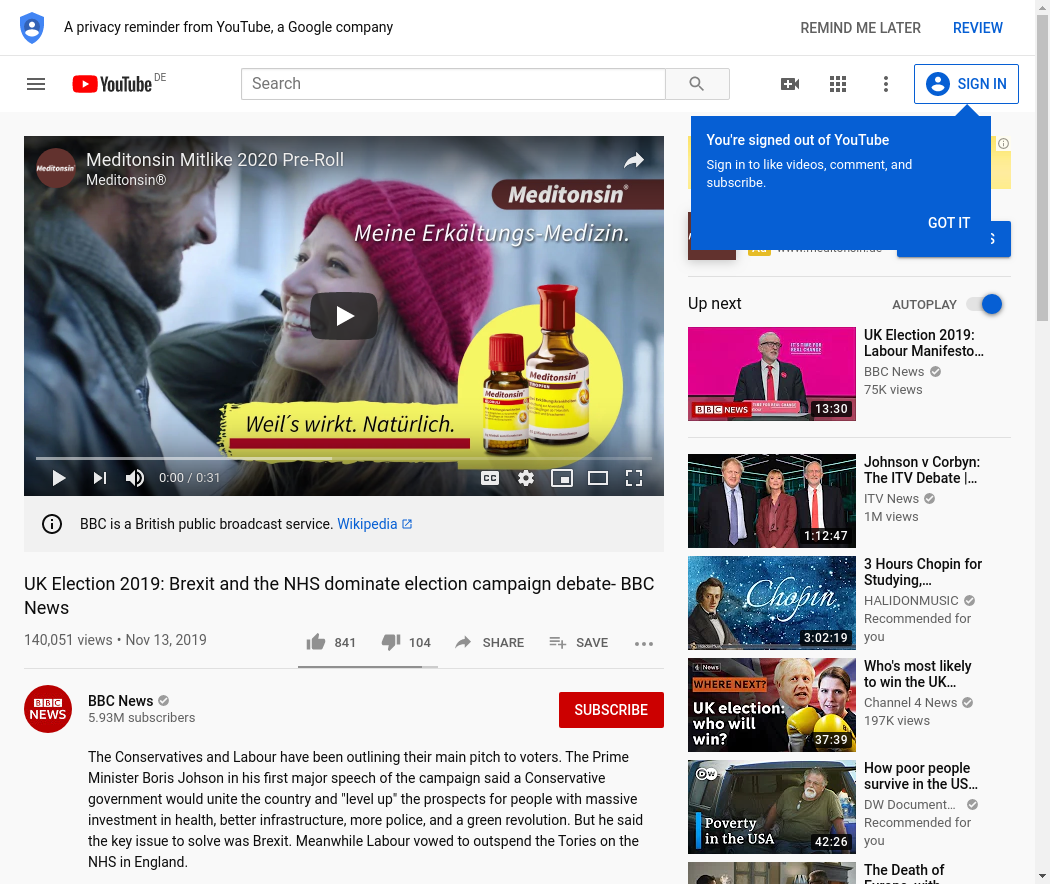
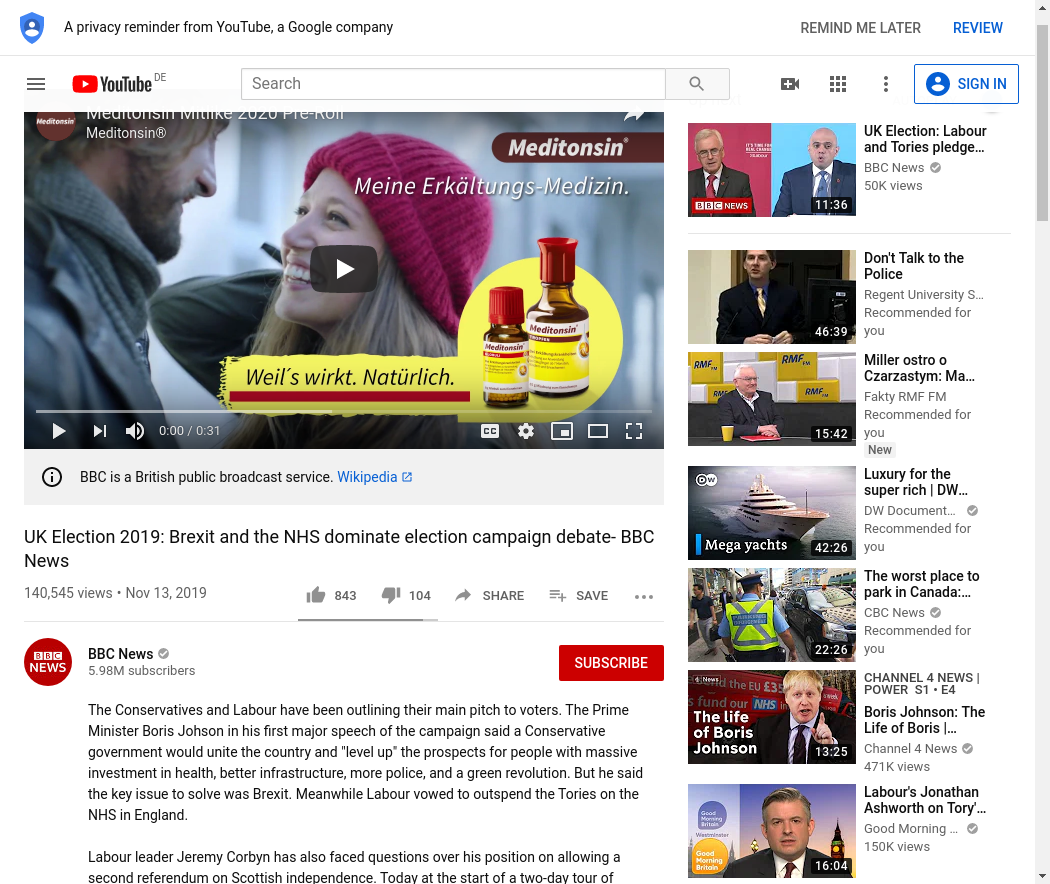
Added Rate Limits

diff --git a/slides/Julian/TheYouTubeAPI.html b/slides/Julian/TheYouTubeAPI.html
@@ -1,7 +1,7 @@
 <!DOCTYPE html>
 <html xmlns="http://www.w3.org/1999/xhtml" lang="" xml:lang="">
   <head>
-    <title>Automatic sampling and analysis of YouTubeData</title>
+    <title>Automatic Sampling and Analysis of YouTube Data</title>
     <meta charset="utf-8" />
     <meta name="author" content="Julian Kohne Johannes Breuer M. Rohangis Mohseni" />
     <meta name="date" content="2020-02-10" />
@@ -13,17 +13,16 @@
     <textarea id="source">
 class: center, middle, inverse, title-slide
 
-# Automatic sampling and analysis of YouTubeData
+# Automatic Sampling and Analysis of YouTube Data
 ## The YouTube API
 ### Julian Kohne<br />Johannes Breuer<br />M. Rohangis Mohseni
 ### 2020-02-10
 
 ---
 
-
 class: center, middle
 
-# Overview
+# The YouTube API
  
 ---
 
@@ -41,7 +40,7 @@ or send content to the database
 - The Youtube Website is
     - build in [HTML](https://de.wikipedia.org/wiki/Hypertext_Markup_Language), 
     - uses [CSS](https://de.wikipedia.org/wiki/Cascading_Style_Sheets) for the "styling"
-    - dynamically loads content using [Ajax](https://en.wikipedia.org/wiki/Ajax_(programming) ) from the Database
+    - dynamically loads content using [Ajax](https://en.wikipedia.org/wiki/Ajax) from the Database
 
 ![plot](Images/YouTube_better.png)
 ---
@@ -51,7 +50,7 @@ or send content to the database
  interesting to us and copy/pasting them. However, this is tedious and time-consuming.**We want a way
  of automatizing this task**
 
-- In general, there are two ways of getting data from a Website ( [Webscraping](https://en.wikipedia.org/wiki/Web_scraping))
+- [Webscraping](https://en.wikipedia.org/wiki/Web_scraping)
 
  1)  **Screenscraping:** Getting the HTML-code out of your browser, parsing &amp; formatting it, then analyzing the data
   
@@ -78,15 +77,14 @@ class: center, middle
 - To automatically obtain data, we can use a so called [GET      request](https://en.wikipedia.org/wiki/Hypertext_Transfer_Protocol)
 
 - A GET request is an HTTP method for asking a server to send a specific resource (usually an HTML page) back
-to you local machine
+to your local machine
 
-- You can try it out in your console with ```{r}GET https://en.wikipedia.org/wiki/Hypertext_Transfer_Protocol ```
+- You can try it out in your console with ``` GET https://en.wikipedia.org/wiki/Hypertext_Transfer_Protocol ```
 
 - This is the basic principle that all the Scraping packages build-on.
 
-- We will not use it directly and will let the higher-level applications handle this under the hood
+- We will not use this directly and will let the higher-level applications handle this under the hood
 
----
 ---
 font-size: x-small
 
@@ -96,7 +94,8 @@ font-size: x-small
 
 
 ```r
-# installing packages and attaching package
+
+# installingand attaching package
 if ("rvest" %in% installed.packages() != TRUE) {
   install.packages("rvest")};library(rvest)
 ## Loading required package: xml2
@@ -115,6 +114,7 @@ Description &lt;- html_nodes(Website, xpath = Xp)
 html_attr(Description, name = "content")
 ## [1] "The Conservatives and Labour have been outlining their main pitch to voters. The Prime Minister Boris Johson in his first major speech of the campaign said a..."
 ```
+
 ---
 # Screenscraping
 
@@ -145,10 +145,13 @@ if ("RSelenium" %in% installed.packages() != TRUE) {
   install.packages("RSelenium")
 }
 
+# attaching package
+library(RSelenium)
+
 # opening docker container from system
 check &lt;- system2("docker", args = "ps", stdout = TRUE)
 
-if (length(check) &gt; 1) {
+if (length(check) == 1) {
   
   #start new container
   system2("docker", args = c("run", "-d", "-p", "4445:4444", "selenium/standalone-chrome"))
@@ -164,13 +167,13 @@ if (length(check) &gt; 1) {
   
 }
 
-# attaching packages
-library(RSelenium)
-
 # Assigning google chrome docker session
 remDr &lt;- RSelenium::remoteDriver(remoteServerAddr = "localhost",
                                  port = 4445L,
                                  browserName = "chrome")
+
+# Waiting for 5 seconds to finish initialization of docker session
+Sys.sleep(5)
 ```
 
 ---
@@ -182,79 +185,18 @@ remDr &lt;- RSelenium::remoteDriver(remoteServerAddr = "localhost",
 ```r
 # Open remote connection
 remDr$open()
-```
 
-```
-## [1] "Connecting to remote server"
-## $acceptInsecureCerts
-## [1] FALSE
-## 
-## $browserName
-## [1] "chrome"
-## 
-## $browserVersion
-## [1] "77.0.3865.75"
-## 
-## $chrome
-## $chrome$chromedriverVersion
-## [1] "77.0.3865.40 (f484704e052e0b556f8030b65b953dce96503217-refs/branch-heads/3865@{#442})"
-## 
-## $chrome$userDataDir
-## [1] "/tmp/.com.google.Chrome.jl3m0f"
-## 
-## 
-## $`goog:chromeOptions`
-## $`goog:chromeOptions`$debuggerAddress
-## [1] "localhost:40979"
-## 
-## 
-## $networkConnectionEnabled
-## [1] FALSE
-## 
-## $pageLoadStrategy
-## [1] "normal"
-## 
-## $platformName
-## [1] "linux"
-## 
-## $proxy
-## named list()
-## 
-## $setWindowRect
-## [1] TRUE
-## 
-## $strictFileInteractability
-## [1] FALSE
-## 
-## $timeouts
-## $timeouts$implicit
-## [1] 0
-## 
-## $timeouts$pageLoad
-## [1] 300000
-## 
-## $timeouts$script
-## [1] 30000
-## 
-## 
-## $unhandledPromptBehavior
-## [1] "dismiss and notify"
-## 
-## $webdriver.remote.sessionid
-## [1] "be4f24b179ec84bed3d7f9d57f74e745"
-## 
-## $id
-## [1] "be4f24b179ec84bed3d7f9d57f74e745"
-```
-
-```r
 # Navigate to website
 remDr$navigate("https://www.youtube.com/watch?v=4PqdqWWSHJY")
 
-# take screenshot
-remDr$screenshot(display = TRUE)
+# Wait for 2 seconds for the website to load
+Sys.sleep(2)
 
-# saving Screenshot
+# Scrolling down a bit
+webElem &lt;- remDr$findElement("css", "body")
+webElem$sendKeysToElement(list(key = "down_arrow"))
+
+# take screenshot
 remDr$screenshot(file = 'Images/RSeleniumScreenshot.png')
 ```
 
@@ -279,10 +221,11 @@ element &lt;- remDr$findElement(using = 'xpath', xp)
 # click on button
 element$clickElement()
 
-# take screenshot (we can see that the description box is now expanded)
-remDr$screenshot(display = TRUE, useViewer = TRUE)
+# Scrolling down a bit
+webElem &lt;- remDr$findElement("css", "body")
+webElem$sendKeysToElement(list(key = "down_arrow"))
 
-#save Screenshot
+# take screenshot (we can see that the description box is now expanded)
 remDr$screenshot(file = 'Images/RSeleniumScreenshot2.png')
 ```
 ---
@@ -305,14 +248,10 @@ element2 &lt;- remDr$findElement(using = 'xpath', xp2)
 unlist(element2$getElementText())
 ```
 
-```
-## [1] "The Conservatives and Labour have been outlining their main pitch to voters. The Prime Minister Boris Johson in his first major speech of the campaign said a Conservative government would unite the country and \"level up\" the prospects for people with massive investment in health, better infrastructure, more police, and a green revolution. But he said the key issue to solve was Brexit. Meanwhile Labour vowed to outspend the Tories on the NHS in England. \n\nLabour leader Jeremy Corbyn has also faced questions over his position on allowing a second referendum on Scottish independence. Today at the start of a two-day tour of Scotland, he said wouldn't allow one in the first term of a Labour government but later rowed back saying it wouldn't be a priority in the early years. \n\nSophie Raworth presents tonight's BBC News at Ten and unravels the day's events with the BBC's political editor Laura Kuenssberg, health editor Hugh Pym and Scotland editor Sarah Smith.\n\n\nPlease subscribe HERE http://bit.ly/1rbfUog"
-```
-
 - "Jeremy Corbyn has launched Labour's general election manifesto and vowed to transform the United Kingdom if they win. He unveiled the wide ranging plans in Birmingham promising what he called a 'green transformation of the economy and a 'manifesto for hope'.   There'd be big tax increases on higher earners and companies to pay for the plans.  The BBC's Political Editor, Laura Kuenssberg, Political Correspondent Alex Forsyth and Economics Editor Faisal Islam report. \nPlease subscribe HERE http://bit.ly/1rbfUog"
 
 ---
-# ScreenScraping
+# Screenscraping
 
 - Advantages of Screenscraping:
   + You can access everything that you are able to access from your browser
@@ -399,13 +338,6 @@ class: center, middle
 
 - To find an API for a given website, [Programmable Web](https://www.programmableweb.com) is
   a good starting point
-
-- Some prominent APIs:
-  - [Google Maps](https://www.programmableweb.com/api/google-maps-places)
-  - [Facebook](https://developers.facebook.com/docs/graph-api?locale=de_DE)
-  - [Twitter](https://developer.twitter.com/en/docs/basics/getting-started)
-  - [Instagram](https://www.instagram.com/developer/)
-  - [Wikipedia](https://de.wikipedia.org/wiki/Wikipedia:Technik/Datenbank/API)
 
 - We will use the [YouTube API](https://developers.google.com/youtube/v3/docs) today
 
@@ -495,26 +427,85 @@ class: center, middle
 - We can see what the API allows us to do in the [Google API Explorer](https://developers.google.com/apis-explorer/#p/)
 
 - Basically, you can automate any action and see all data that you
-  also would be able to see when logged into YT with your Google account
+  also would be able to see when logged into YouTube with your Google account
 
 - Fortunately for us, the YouTube API is very [well documented](https://developers.google.com/youtube/v3/docs/)
 
 ---
+# Let's check the API
 
-# Test
+- Google provides a sandbox for their API that we can use to get a grasp of how it operates
+
+- We can for example use our credentials to get search for videos with the keyword "Brexit"
+
+- [Example](https://developers.google.com/youtube/v3/docs/search/list?apix_params=%7B%22part%22%3A%22snippet%22%2C%22q%22%3A%22Brexit%22%7D)
+
+- Keep in mind: We have to log in with our created Google account to use the API
+
+- What we get back is a JSON formatted response with the formats and information we requested in the Sandbox
 
 ---
+# Most important parameters:
 
-# Have a slide with an overview of most common parameters and which ones we are going to use
+- All possible parameters are listed [here](https://developers.google.com/youtube/v3/docs/search/)
+
+- Keep in mind that some information is only visible to owners of a channel or author of a video
+
+- Keep in mind that not all information is necessarily available for all videos (e.g. live videos)
 
 ---
+# Using it from R
 
-# Have a slide explaining what a GET Request it, how to execute it from the terminal and in the toolkit
+- We can simplyfiy the process of interacting with the YouTube API by using a dedicated R package
+
+- The package handles the authentification with our credentials and translates R commands into API calls
+
+- In essence, we can run R commands and get API results back
+
+.center[![plot](Images/MuchWin.jpeg)]
+
+- For this workshop, we will use the [tubeR package](https://cran.r-project.org/web/packages/tuber/tuber.pdf)
 
 ---
+# Rate Limits
 
-# how to execute it from R
+- With the API, you have a limit of how much data you can get
 
+- This limit has constantly decreased over the last decade
+
+.center[![plot](Images/RateLimitReduction3.png)]
+
+---
+# Rate Limits
+
+- Currently (02.2020), you have a quota of **10.000** units per day
+
+- Each request (even invalid ones) costs a certain amount of units
+
+- There are two factors influencing the quota cost of each request:
+
+  - different types (e.g write operation: 50 units; video upload: 1600 units)
+  
+  - how many parts the requested resource has (playlist:2; channel: 6; video: 10)
+  
+**You should only request parts that you absolutely need to make the most of your units** 
+  
+---
+
+# Can I increase my Rate Limit?
+
+.center[![plot](Images/Odyssey4.jpg)]
+
+
+---
+# Exercises
+
+- 
+
+---
+class: center, middle
+
+# Thank You
 ---
     </textarea>
 <style data-target="print-only">@media screen {.remark-slide-container{display:block;}.remark-slide-scaler{box-shadow:none;}}</style>
